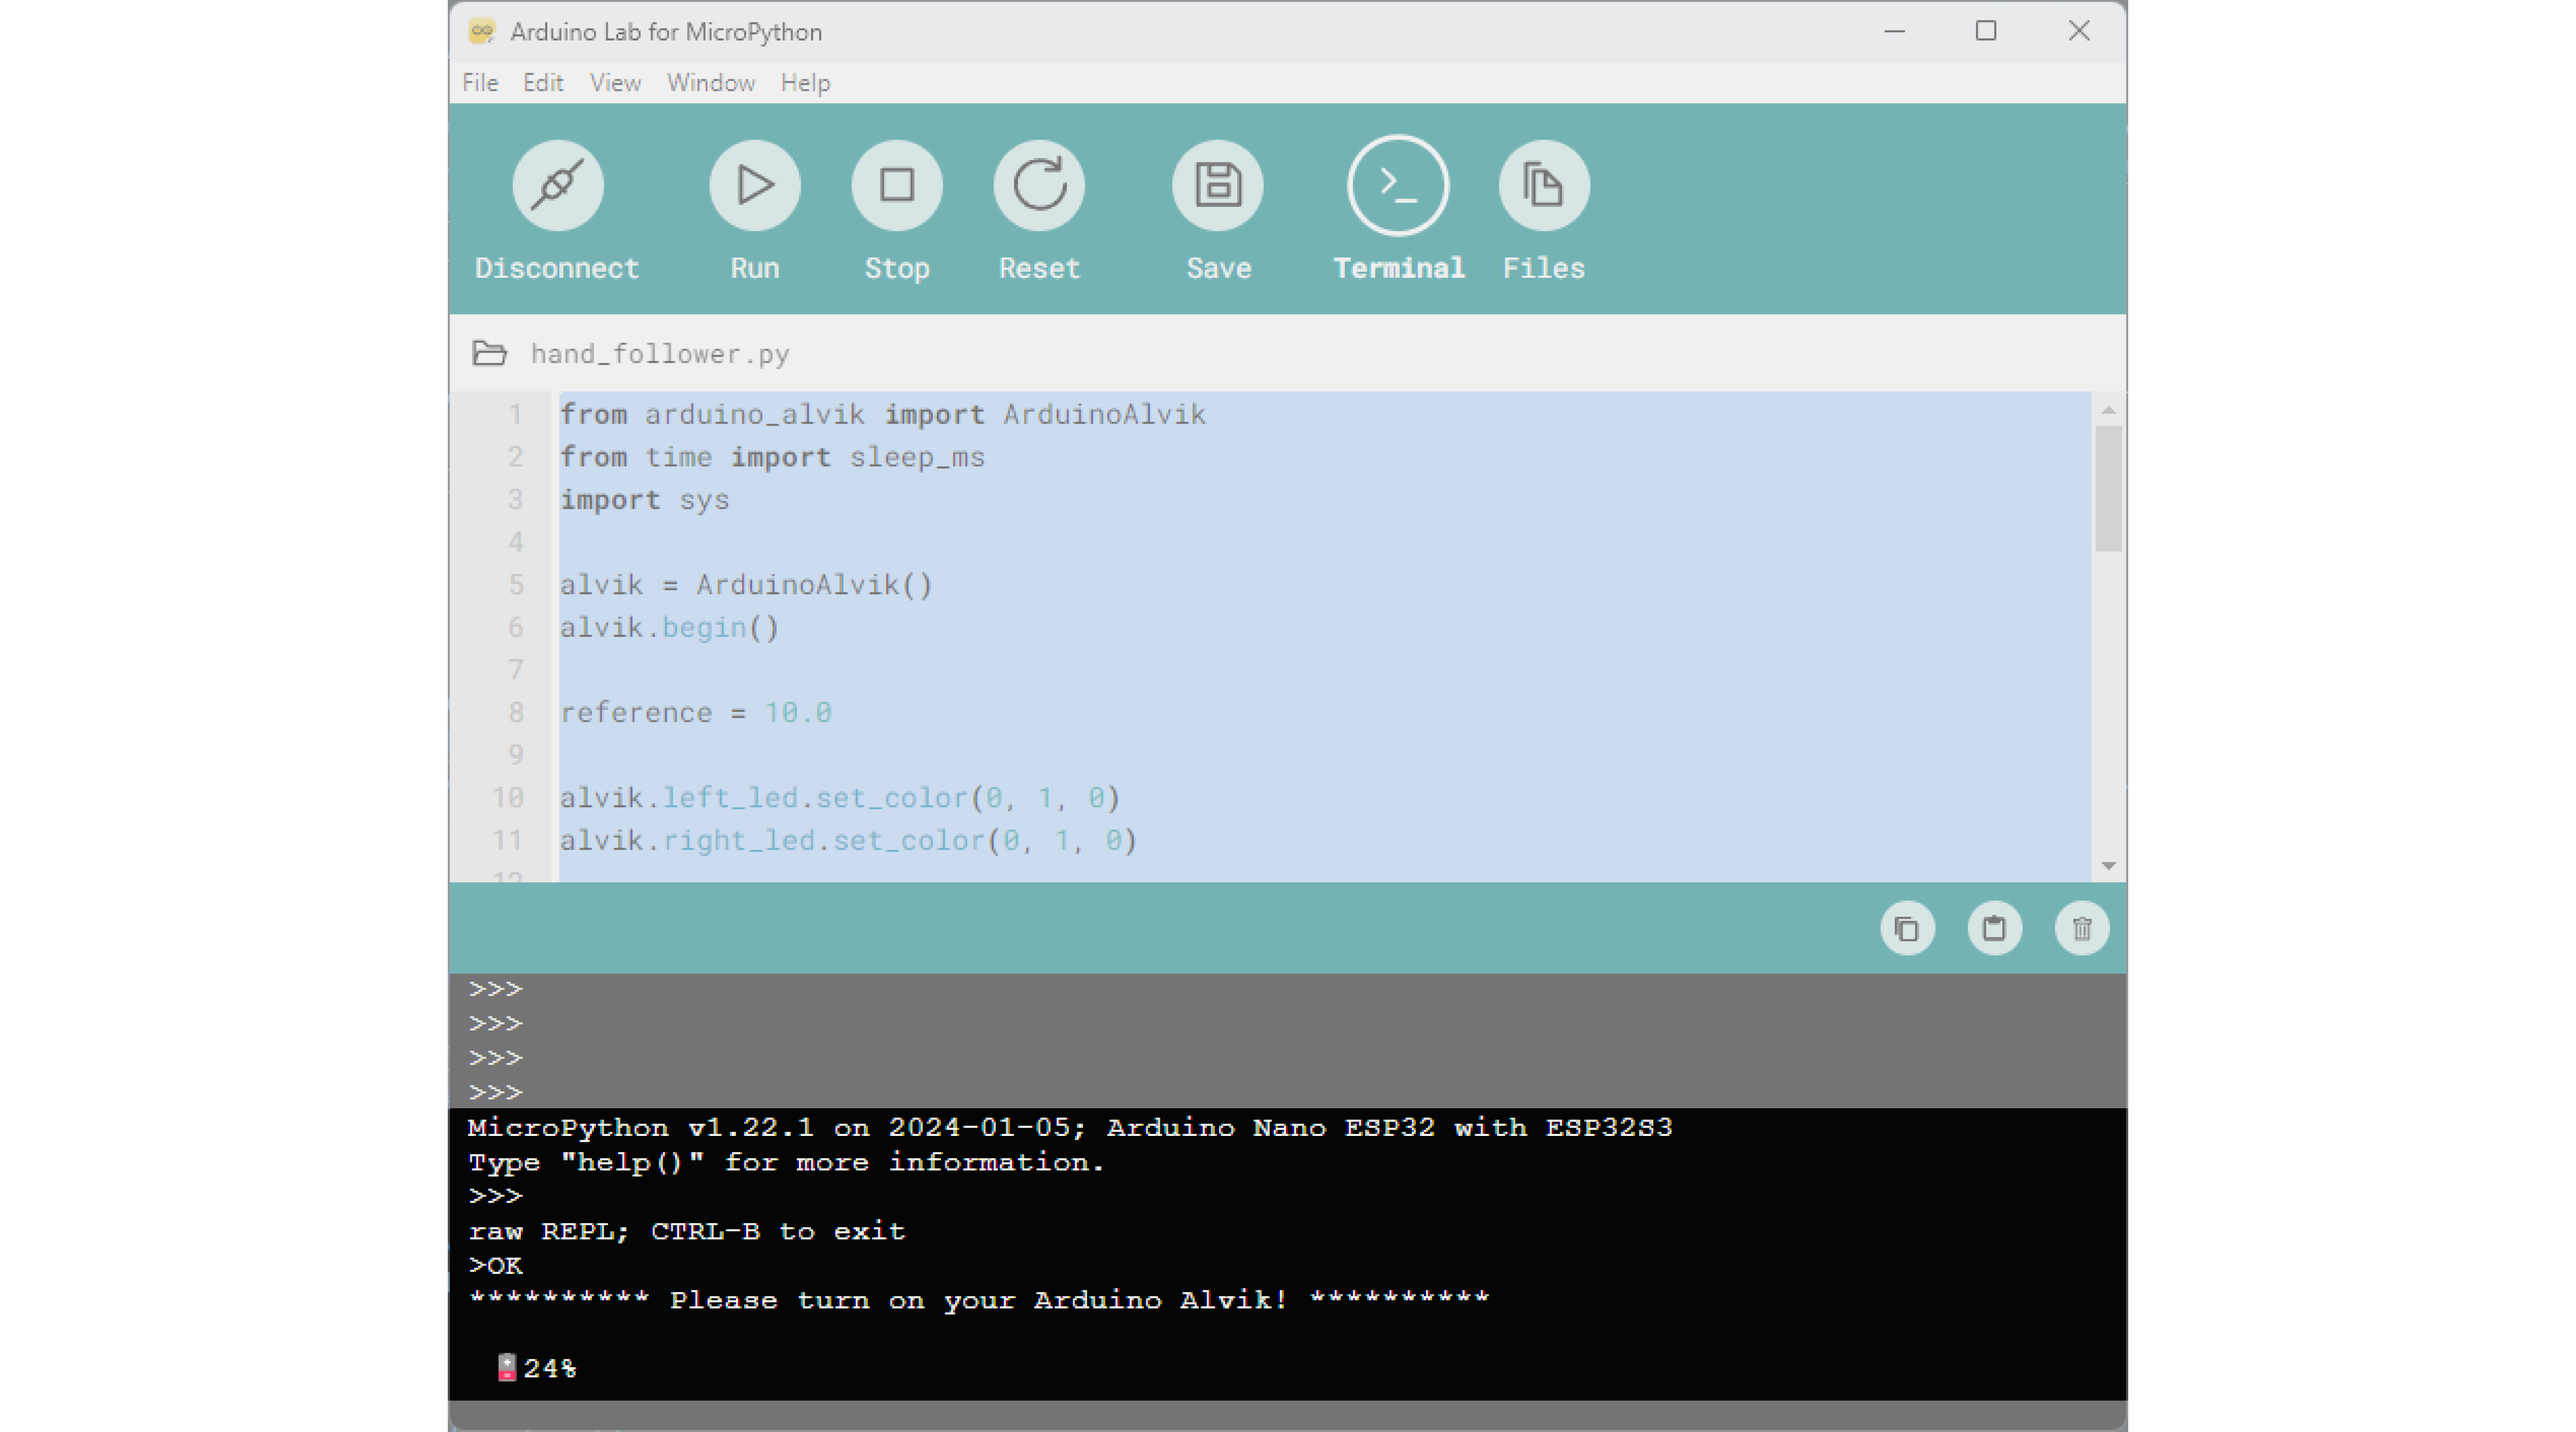
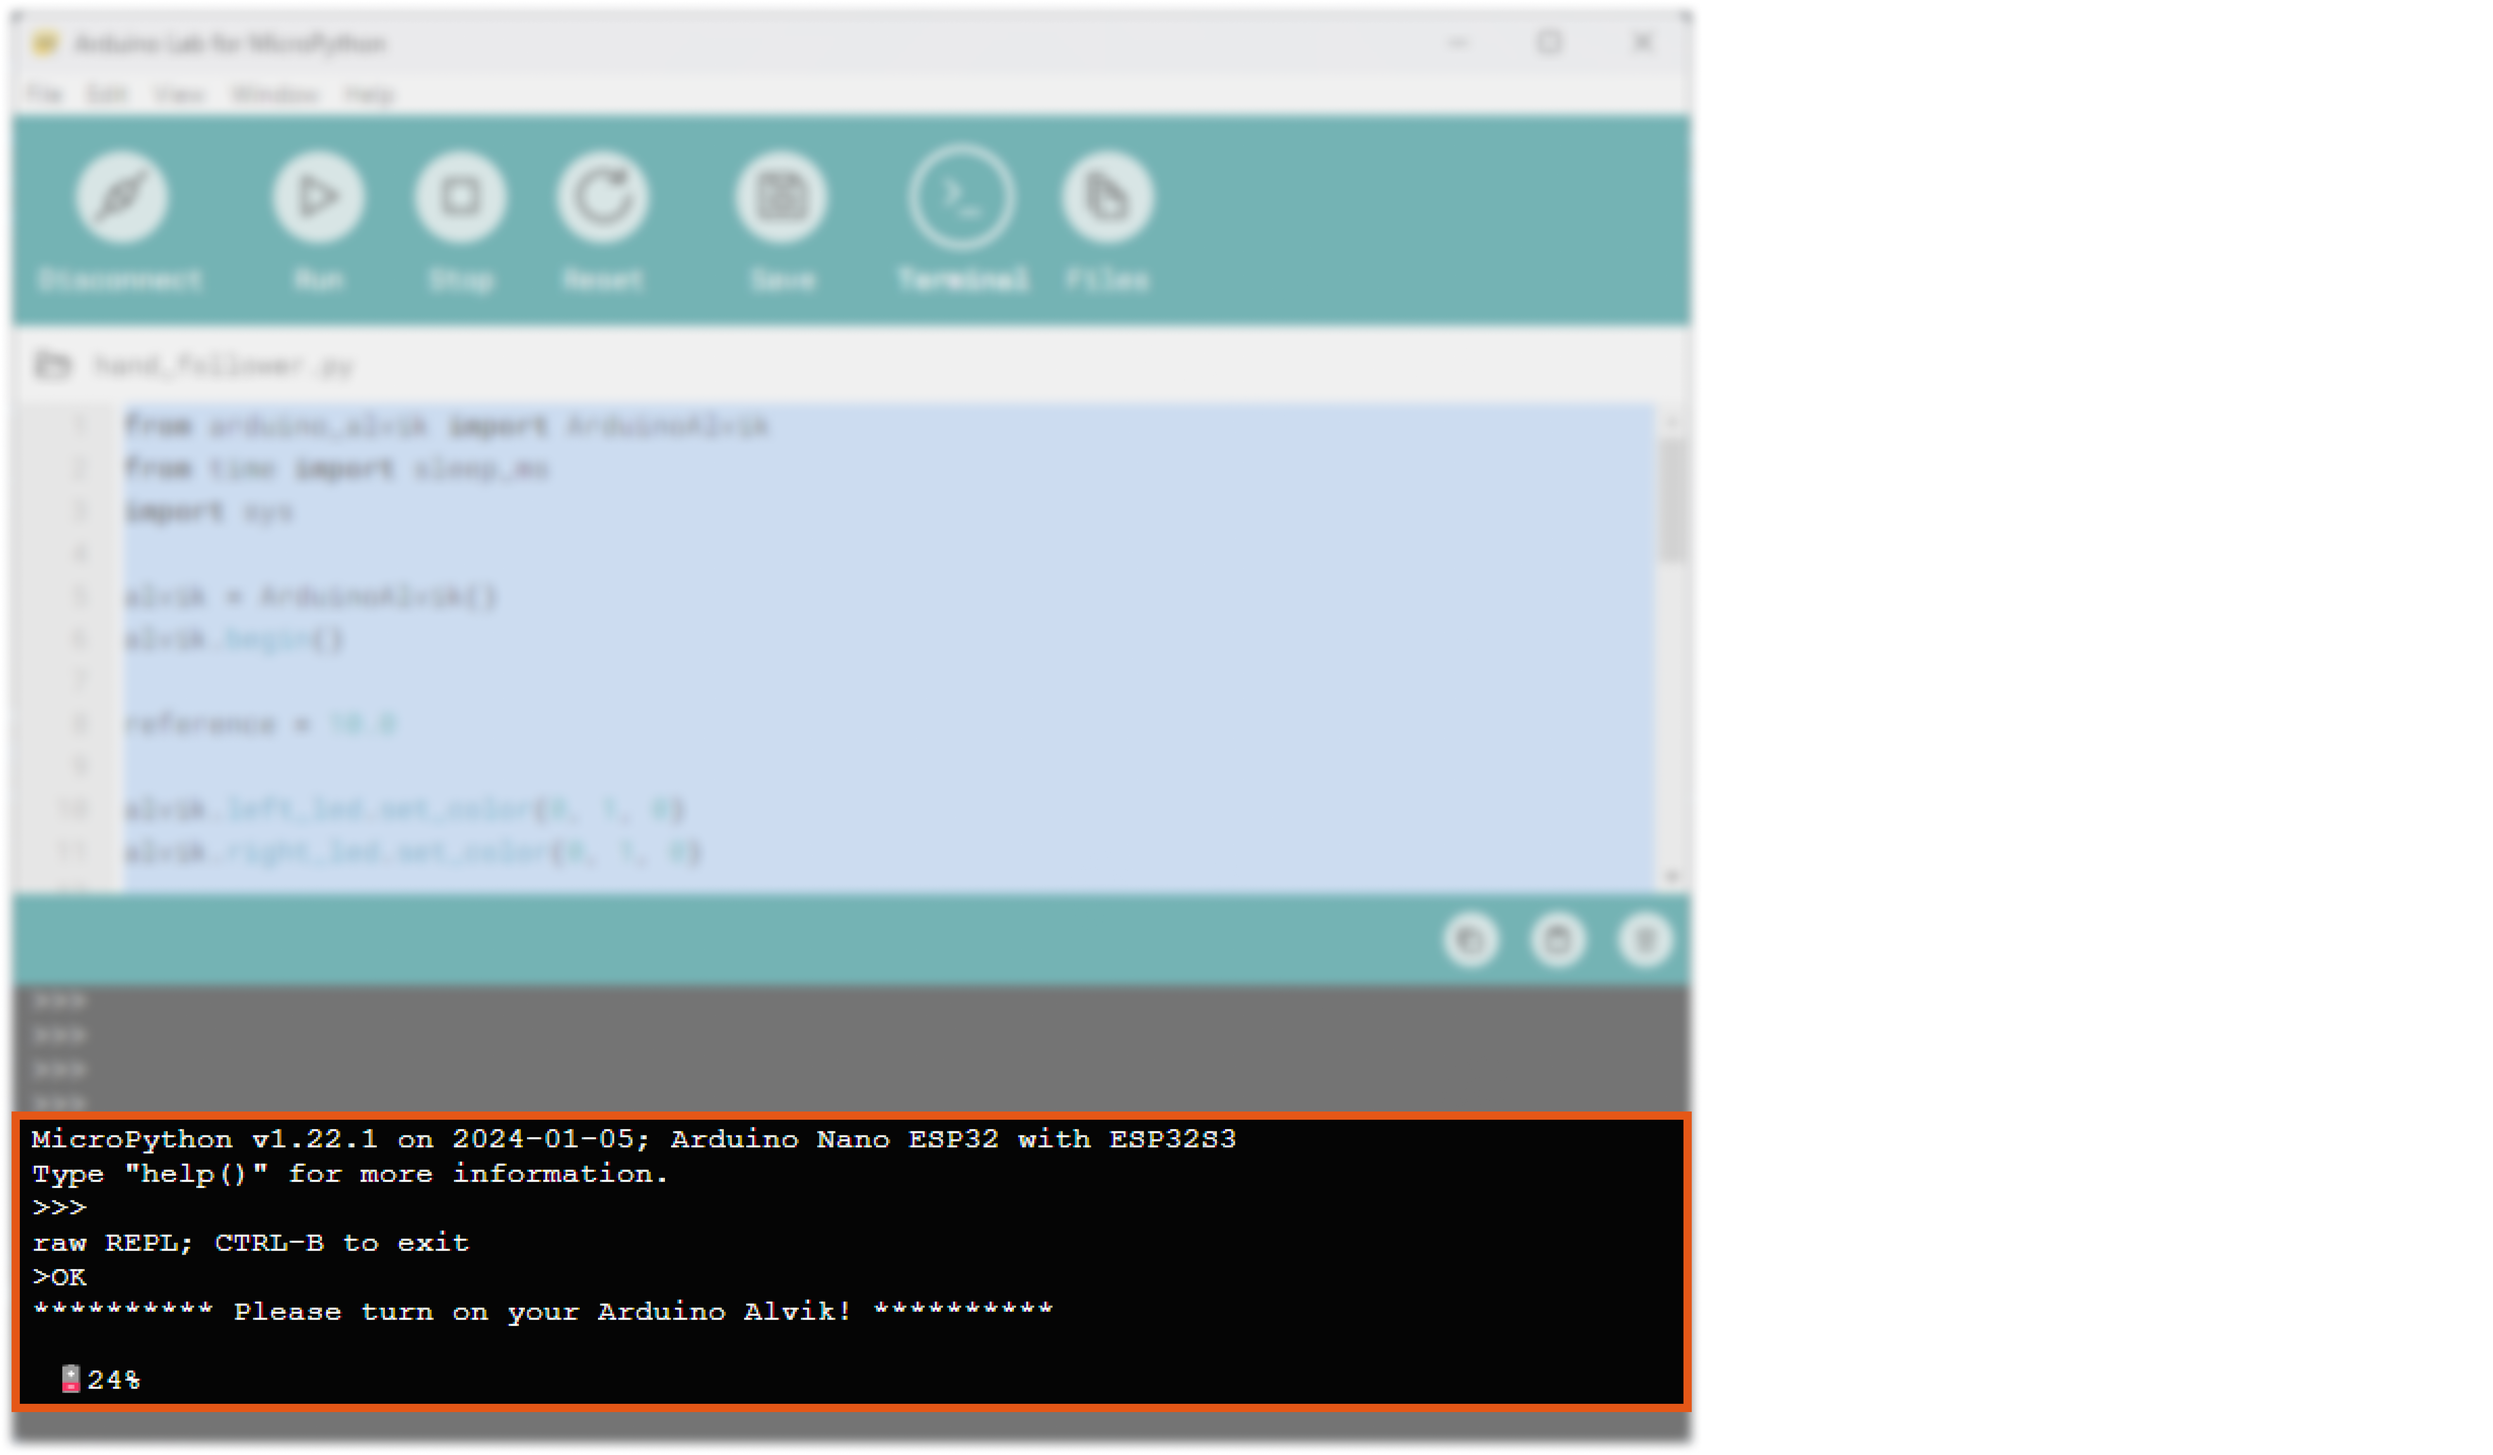
Added feedback
-Added highlight to console
-Removed redunctant info

diff --git a/content/hardware/08.edu/solution-and-kits/alvik/tutorials/user-manual/user-manual.md b/content/hardware/08.edu/solution-and-kits/alvik/tutorials/user-manual/user-manual.md
@@ -223,51 +223,41 @@ The Arduino Alvik robot is equipped with an onboard IMU (Inertial Measurement Un
 | Geared motors w/ encoder | GM12-N20VA-08255-150-EN | wheels_positions.py   |
 | RGB LEDs                 | RGB LEDs                | leds_settings.py      |
 
+### Motors
+
+The Alvik is equipped with two geared motors, specifically the GM12-N20VA-08255-150-EN. These motors allow for precise and reliable movement, essential for accurate navigation and control as  each motor includes a magnetic relative encoder to ensure precise control and feedback of the motor's position.
+
+- **Gear Ratio:** 1:150
+- **Operating Voltage:** 6V
+- **No-load Speed:** 55 RPM
+- **No-load Current:** 70mA
+- **Encoder Type:** Magnetic relative encoder
+- **Magnetic relative AB encoder:** 3 ppr
+
+
+### LED Indicators
+
+![LED indicators position](assets/ledIndicator.png)
+
 The RGB LEDs can be used for visual feedback and can be programmed to display various colors and patterns. The LEDs take in **boolean** values for each color meaning that combinations are possible by setting each color **on** or **off** .
 
 
-### Connectors
-
-The connectors are placed in the back of the robot, the pinout is shown in the following image:
-
-![Connectors Pinout](assets/datasheet_connectors.png)
-
-
-## What the Robot Includes
-
-The Arduino Alvik robot package includes the following items:
-- Alvik robot
-- USB-C® to USB-C® cable
-- Phillips screwdriver
-- 18650 Li-Ion battery
-
+## Out Of The Box Modes
 
 Alvik is equipped with three ready-to-go examples. To choose one of the examples, just turn your Alvik ON, move the switch located at the bottom right corner of the robot to the right, wait until the LEDs turn blue and use the Up and Down buttons to pick one color, then hit the "tick" confirmation button. 
 
-### Basic Touch Programming
+- **Basic Touch Programming**: Alvik’s touch buttons can control actions such as movement, changing modes, and interacting with the environment. This allows for intuitive control schemes for different applications.
 
-Alvik’s touch buttons can be programmed to control various actions such as movement, changing modes, and interacting with the environment. This allows for creating intuitive control schemes for different applications. By default, the touch buttons are pre-programmed to control the Alvik's basic movements, such as moving forward, backward, turning left, and turning right. This setup provides an immediate interactive experience, enabling you to get started with minimal setup.
+- **Following Objects**: Using its distance sensors, Alvik can follow objects by maintaining a specific distance. This feature is useful for automated guided vehicles and interactive robotics.
 
-### Following Objects
+- **Line Follower**: Alvik's line follower sensors enable it to navigate along paths marked by lines on the ground, which is great for educational purposes and demonstrating basic robotic navigation.
 
-Out of the box, Alvik is equipped with distance sensors that allow it to follow objects by maintaining a certain distance from them. This feature is pre-configured to help the Alvik follow a target object, making it useful for applications like automated guided vehicles and interactive robotics. The default settings ensure that Alvik can smoothly track and follow objects placed in front of it without any additional programming required.
-
-### Line Follower
-
-Alvik comes pre-programmed with a line following algorithm that utilizes its built-in line follower sensors. These sensors enable the Alvik to navigate along predefined paths marked by lines on the ground. This feature is particularly beneficial in educational settings and for demonstrating basic robotic navigation. The default configuration allows Alvik to follow a black line on a white surface right out of the box, providing an engaging and interactive learning experience for you.
+For more information, visit the [Alvik Getting Started Guide](https://docs.arduino.cc/tutorials/alvik/getting-started/).
 
 ## Alvik's Firmware
 
 To get started to play with Alvik you will need the following hardware and software:
 
-### Hardware Requirements
-
-- Alvik (x1)
-- USB-C® to USB-C® cable (x1)
-- Phillips Screwdriver (cross head)(optional) (x1)
-- Computer (x1)
-
-***Make sure the USB-C® cable you are using works with data lines, not only power lines***
 
 ### Software Requirements
 
@@ -1490,13 +1480,19 @@ Alvik includes several connectors that expand its capabilities:
 
 ### Qwiic Connectors
 
+![QWIIC Connector](assets/QWIIC.png)
+
 The Qwiic connectors on the Arduino Alvik robot are used for I2C connectivity with compatible sensors and actuators using the Qwiic standard. This standard simplifies the process of connecting multiple I2C devices by using a common connector and pinout. The Qwiic system supports daisy-chaining, allowing multiple devices to be connected in series. There are two Qwiic connectors, one on each side at the back of the robot, allowing for easy expansion and integration of additional components.
 
 ### Grove Connectors
 
+![Grove Connector](assets/GROVE.png)
+
 The Grove connectors on the Arduino Alvik robot are used for connectivity with compatible sensors and actuators following the Grove standard. The Grove system uses standardized connectors and pinouts to simplify the connection of various I2C devices. The system is modular and user-friendly, ideal for rapid prototyping and educational purposes. There are two Grove connectors, one on each side at the back of the robot, providing additional flexibility for expanding the robot's capabilities.
 
 ### Servomotor Connectors
+
+![Servo Connector](assets/Servo.png)
 
 The Arduino Alvik robot features 3-pin connectors for attaching servomotors while providing PWM control external servomotors. The connectors are disposed on a 6 by 2 header in the center at the back of the robot, supporting multiple servomotor connections. This arrangement enables complex robotic movements and functions, allowing the robot to perform a variety of additional tasks.
 
